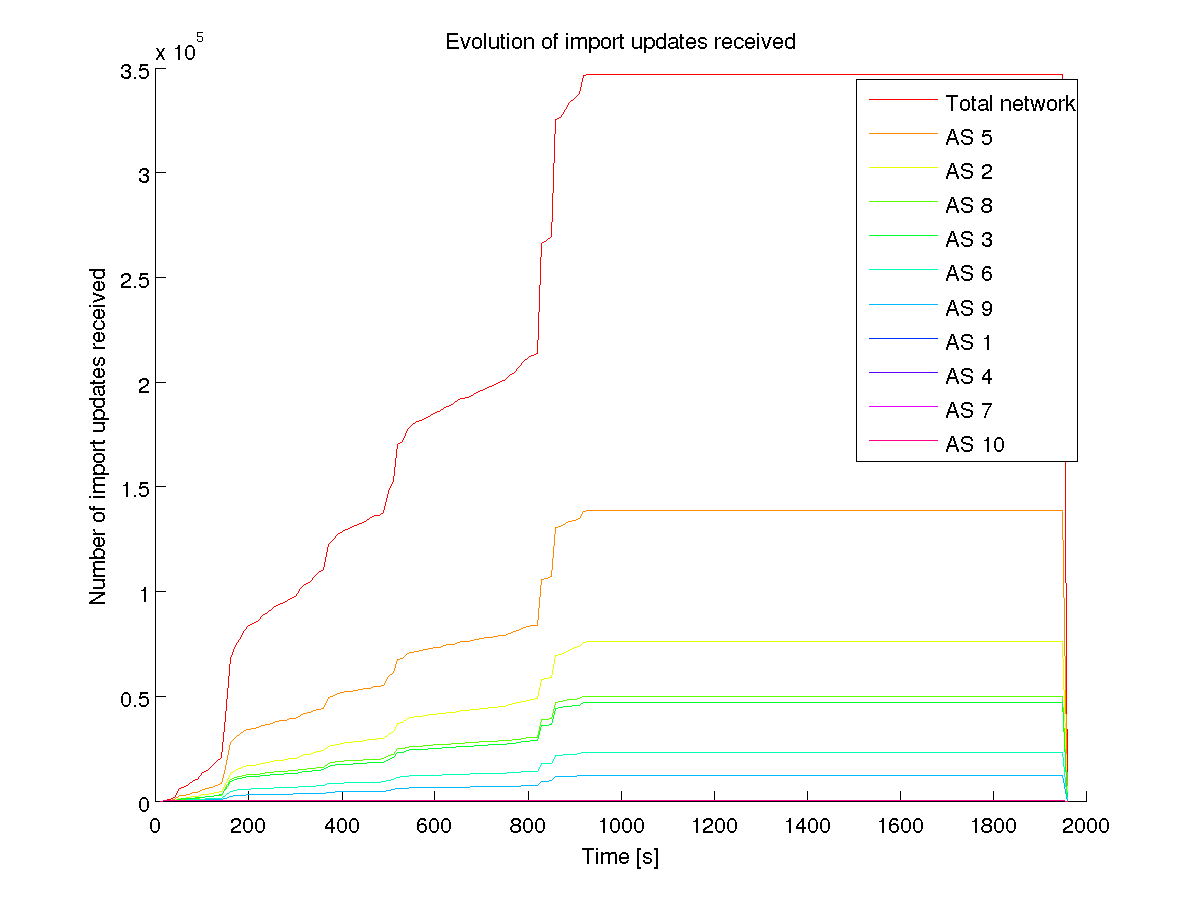
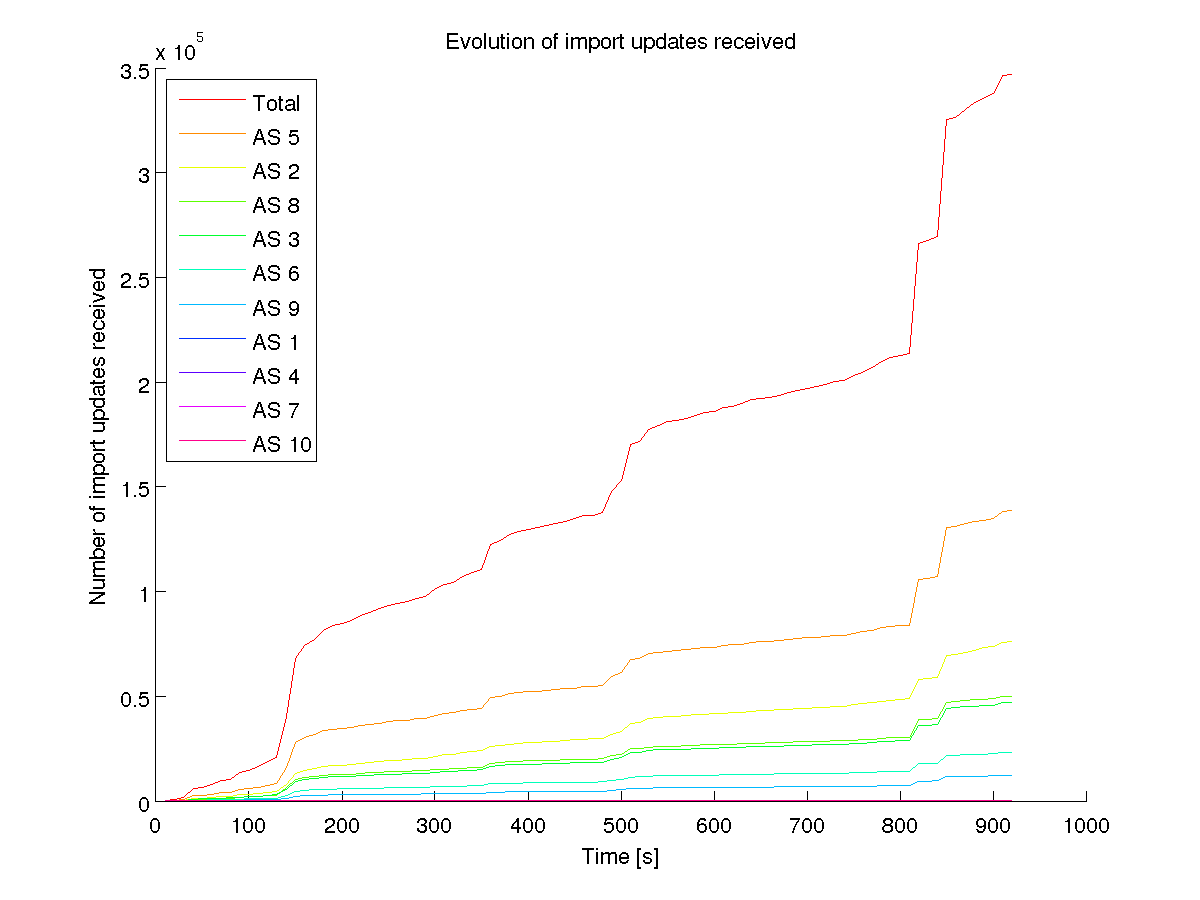
Graphs improved: start and end match

diff --git a/evaluation/create_graphs.m b/evaluation/create_graphs.m
@@ -1,3 +1,6 @@
+
+% TODO: different line styles for different curves
+
 function [] = create_graphs()
 
 % This script generate the graphs for the evaluations
@@ -53,14 +56,16 @@ end
 end
 
 function [ ]= myplot(data, m, label)
-% TODO: reduce end of data when it remains constant
 
-time = 10*(1:length(data{1}));
+[first_index last_index] = find_boundaries(data,m);
+
+time = 10*(1:(last_index-first_index+1));
 cc=hsv(11);
 
 figure(m);
 hold on;
 legends={};
+
 
 % find order in which we have to display elements
 % and total
@@ -77,16 +82,43 @@ data{11}=total;
 [val indices] = sort(order,'descend');
 
 for k=1:11
-    plot(time,data{indices(k)}(m,:),'color',cc(k,:));
+    plot(time,data{indices(k)}(m,first_index:last_index),'color',cc(k,:));
     ylabel(sprintf('Number of %s',label));
     xlabel('Time [s]');
     legends{k} = sprintf('AS %d',indices(k));
     title(sprintf('Evolution of %s',label));
 end
-legends{find(indices==11)}='Total network';
-legend(legends,'Location','NorthEast');
+legends{find(indices==11)}='Total';
+legend(legends,'Location','NorthWest');
 hold off
 
 img_name = sprintf('./img/%s.png',label);
 saveas(gcf,img_name,'png');
+disp(sprintf('Image saved to %s',img_name));
+end
+
+
+
+function [first_index last_index] = find_boundaries(data,m)
+% find start and end of data. start = given by router 3 (first non zero
+% val) and end = when sum remains constant
+firsts = zeros(1,10);
+lasts = zeros(1,10);
+for k=1:10
+    pos1 = find(data{k}(m,:)>0,1);
+    if (isempty(pos1))
+       firsts(k)=length(data{k}(m,:)); 
+    else
+       firsts(k)=pos1;
+    end
+    pos2 = find(data{k}(m,:)==max(data{k}(m,:)),1);
+     if (isempty(pos2))
+       lasts(k)=0; 
+    else
+       lasts(k)=pos2;
+    end
+end
+first_index = min(firsts);
+last_index = max(lasts);
+
 end
